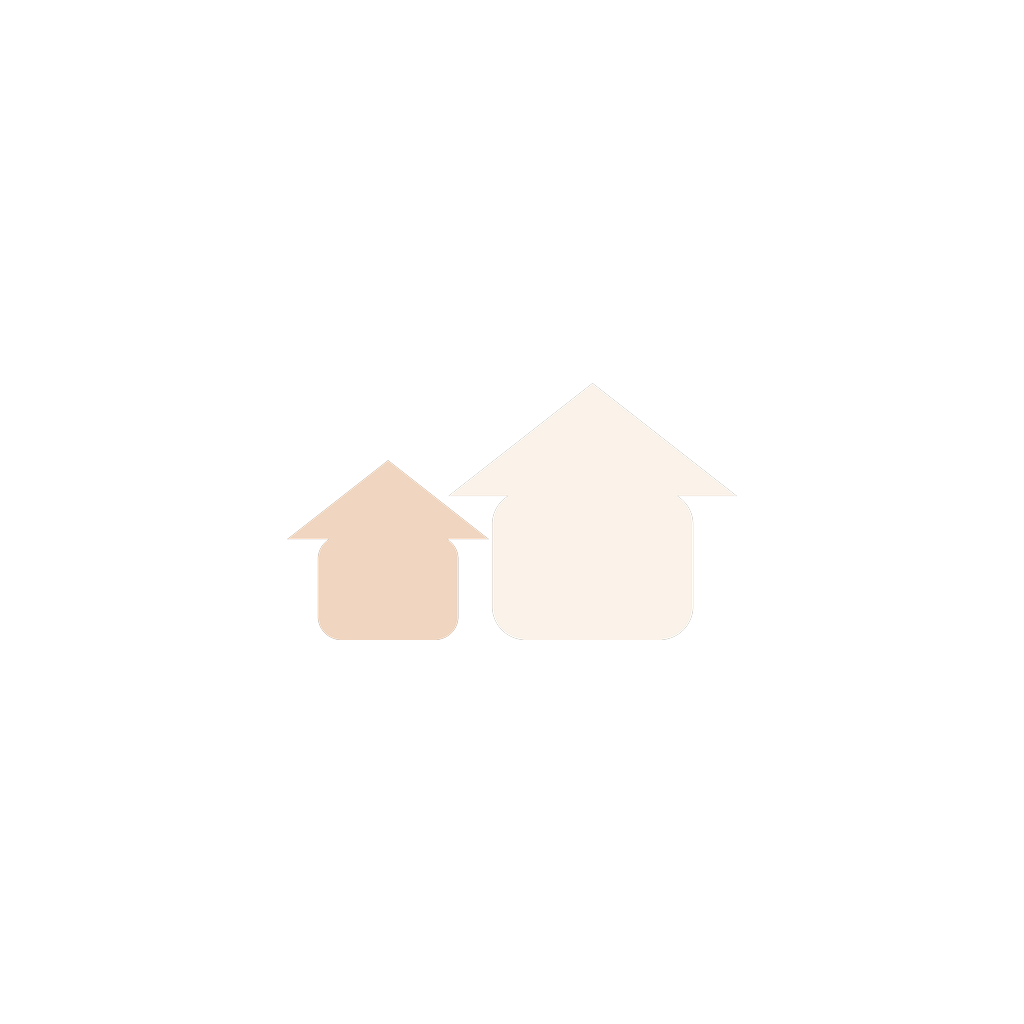
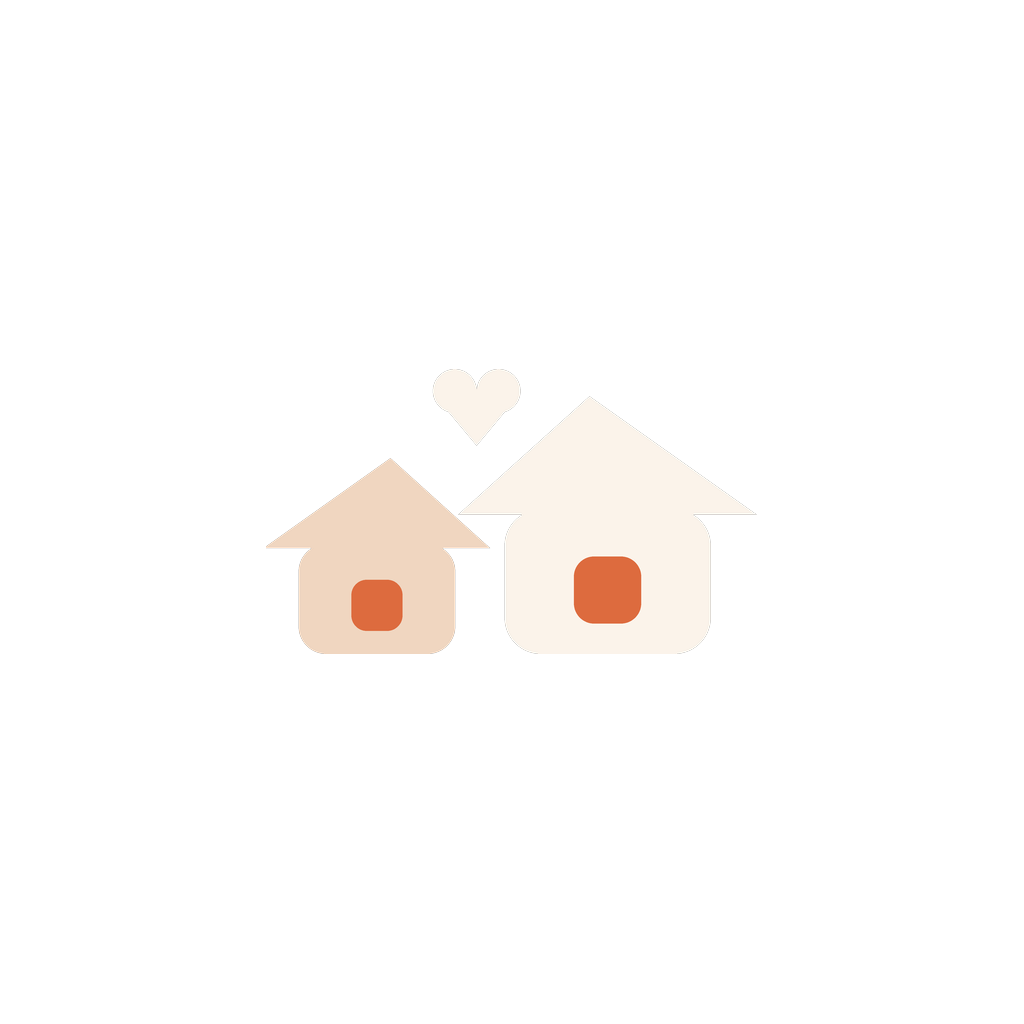
Marca con más carácter y cabecera centrada
Las casas llevan ahora ventana y se ladean la una hacia la otra, con un
corazón entre los tejados: la versión anterior eran dos siluetas planas
sin expresión. En la bienvenida la marca pasa de 72 a 132 px y el bloque
de nombre y descripción queda centrado.

diff --git a/src/screens/WelcomeScreen.tsx b/src/screens/WelcomeScreen.tsx
@@ -54,16 +54,18 @@ export default function WelcomeScreen({ navigation }: Props) {
   return (
     <Screen>
       <ScrollView contentContainerStyle={{ gap: 12, paddingBottom: 32 }} showsVerticalScrollIndicator={false}>
-      <Image
-        source={require('../../assets/splash-icon.png')}
-        style={{ width: 72, height: 72, marginBottom: 12 }}
-        resizeMode="contain"
-        accessibilityIgnoresInvertColors
-      />
-      <Text style={styles.title}>Neighborhub</Text>
-      <Text style={styles.subtitle}>
-        La plataforma donde los vecinos se ayudan entre sí y, en lugar de pagarse en dinero, acumulan créditos.
-      </Text>
+      <View style={styles.hero}>
+        <Image
+          source={require('../../assets/splash-icon.png')}
+          style={styles.heroMark}
+          resizeMode="contain"
+          accessibilityIgnoresInvertColors
+        />
+        <Text style={[styles.title, styles.centered]}>Neighborhub</Text>
+        <Text style={[styles.subtitle, styles.centered, { marginBottom: 4 }]}>
+          La plataforma donde los vecinos se ayudan entre sí y, en lugar de pagarse en dinero, acumulan créditos.
+        </Text>
+      </View>
 
       <ComoFunciona />
 

diff --git a/src/components/ui.tsx b/src/components/ui.tsx
@@ -72,7 +72,7 @@ export function Screen({ children }: { children: React.ReactNode }) {
 }
 
 export const styles = StyleSheet.create({
-  screen: { flex: 1, backgroundColor: colors.background, paddingHorizontal: 24, paddingTop: 72, gap: 12 },
+  screen: { flex: 1, backgroundColor: colors.background, paddingHorizontal: 24, paddingTop: 56, gap: 12 },
   title: { fontSize: 32, fontWeight: '700', color: colors.text, marginBottom: 4, letterSpacing: -0.5 },
   subtitle: { fontSize: 16, color: colors.muted, marginBottom: 16 },
   input: {
@@ -92,6 +92,9 @@ export const styles = StyleSheet.create({
   buttonText: { fontSize: 16, fontWeight: '500', color: colors.text },
   linkText: { fontWeight: '400', textDecorationLine: 'underline' },
   error: { color: colors.danger, fontSize: 14 },
+  hero: { alignItems: 'center', marginBottom: 20 },
+  heroMark: { width: 132, height: 132, marginBottom: 4 },
+  centered: { textAlign: 'center' },
   steps: { gap: 14, marginBottom: 8 },
   step: { flexDirection: 'row', alignItems: 'flex-start', gap: 12 },
   stepNumber: {
